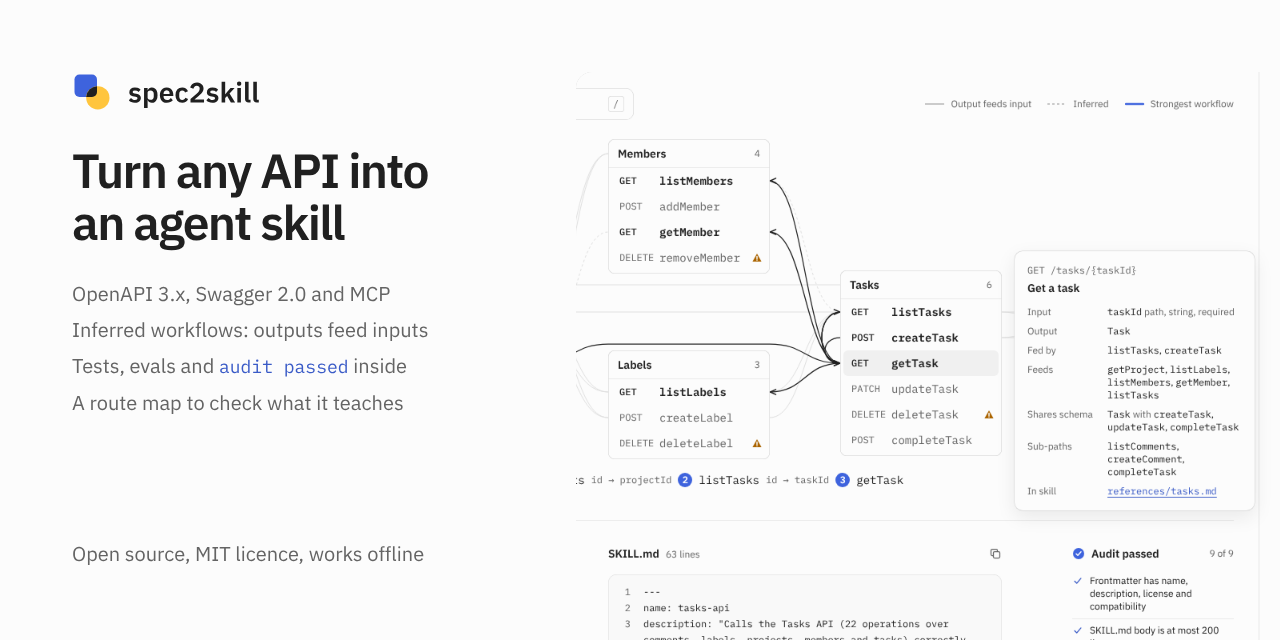
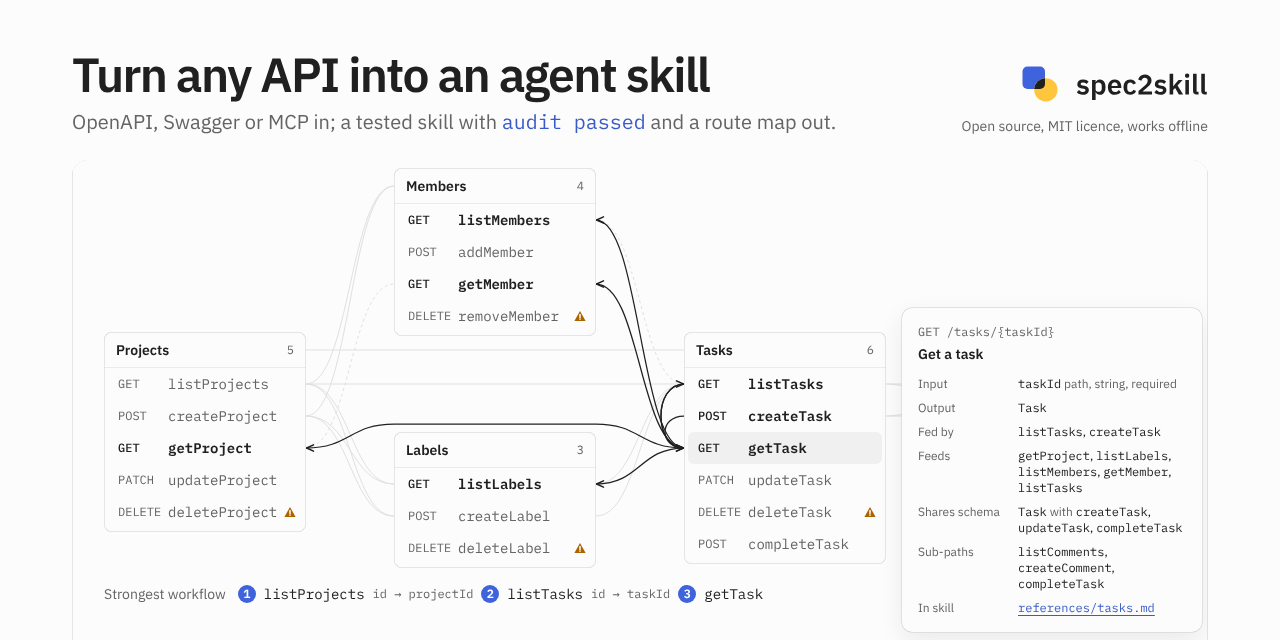
Redesign R7 verify 1: demo opens on Petstore so the switch to the Tasks API is seen; social preview crops the hero along the frame's sides and through blank space, code at 20 (D78)
Claude-Session: https://claude.ai/code/session_018f8FAnzov9ZBQEqsiVnGBS

diff --git a/docs/media/social-preview.html b/docs/media/social-preview.html
@@ -30,40 +30,40 @@
     color: var(--gray-12);
     font-family: 'IBM Plex Sans', system-ui, sans-serif;
     font-feature-settings: "tnum";
-    display: grid;
-    grid-template-columns: 440px 1fr;
-    gap: 64px;
-    padding: 72px 0 0 72px;
+    display: flex;
+    flex-direction: column;
+    gap: 24px;
+    padding: 48px 72px 0;
   }
-  .words { display: flex; flex-direction: column; gap: 32px; padding-bottom: 72px; }
-  .words img { width: 188px; height: auto; }
-  h1 { font-size: 48px; line-height: 52px; font-weight: 600; letter-spacing: -0.035em; text-wrap: balance; }
-  ul { list-style: none; padding: 0; display: grid; gap: 8px; font-size: 20px; line-height: 28px; color: var(--gray-11); }
-  code { font-family: 'IBM Plex Mono', ui-monospace, monospace; font-size: 18px; color: var(--indigo-11); }
-  .foot { margin-top: auto; font-size: 20px; line-height: 28px; color: var(--gray-11); }
-  /* The hero (V2Hover, 1440x1250) at 80 %: Members, Labels and Tasks with getTask hovered, its links in
-     ink and its operation card, from the tools row down. */
+  .top { display: flex; justify-content: space-between; align-items: flex-end; gap: 48px; }
+  h1 { font-size: 48px; line-height: 52px; font-weight: 600; letter-spacing: -0.035em; white-space: nowrap; }
+  .lede { margin-top: 8px; font-size: 20px; line-height: 28px; color: var(--gray-11); }
+  code { font-family: 'IBM Plex Mono', ui-monospace, monospace; font-size: 20px; color: var(--indigo-11); }
+  .mark { display: flex; flex-direction: column; align-items: flex-end; gap: 12px; }
+  .mark img { width: 188px; height: auto; }
+  .mark p { font-size: 14px; line-height: 20px; color: var(--gray-11); }
+  /* The hero (V2Hover, 1440x1250) at 100 %: the result frame (152 to 1288, exactly this box's width)
+     from just above the map's cards (y 576) to the blank under the workflow caption (y 1056), so the
+     crop runs along the frame's sides and through empty space, never through a card or a line of text. */
   .shot {
-    align-self: start;
-    height: 568px;
+    flex: 1;
     overflow: hidden;
-    border-radius: 16px 0 0 0;
+    border-radius: 16px 16px 0 0;
     box-shadow: inset 0 0 0 0.5px var(--gray-7);
   }
-  .shot img { display: block; width: 1152px; max-width: none; margin: -400px 0 0 -347px; }
+  .shot img { display: block; width: 1440px; max-width: none; margin: -576px 0 0 -152px; }
 </style>
 </head>
 <body>
-  <div class="words">
-    <img src="wordmark.svg" alt="spec2skill">
-    <h1>Turn any API into an agent skill</h1>
-    <ul>
-      <li>OpenAPI 3.x, Swagger 2.0 and MCP</li>
-      <li>Inferred workflows: outputs feed inputs</li>
-      <li>Tests, evals and <code>audit passed</code> inside</li>
-      <li>A route map to check what it teaches</li>
-    </ul>
-    <p class="foot">Open source, MIT licence, works offline</p>
+  <div class="top">
+    <div>
+      <h1>Turn any API into an agent skill</h1>
+      <p class="lede">OpenAPI, Swagger or MCP in; a tested skill with <code>audit passed</code> and a route map out.</p>
+    </div>
+    <div class="mark">
+      <img src="wordmark.svg" alt="spec2skill">
+      <p>Open source, MIT licence, works offline</p>
+    </div>
   </div>
   <div class="shot"><img src="hero.png" alt=""></div>
 </body>

diff --git a/docs/DECISIONS.md b/docs/DECISIONS.md
@@ -102,3 +102,4 @@ Record every non-trivial decision here: date, decision, alternatives considered,
 | 2026-10-24 | D75 Made by rows and text overlap (R7 verify 1): a Made by row keeps its two 202 px cells (name over URL, line beside) only while the list is at full width; `.projects` is a size container and below 490 px (a viewport under about 1165 px) the row stacks name, line, URL, as on phones, so no URL is cut, wrapped mid-word or printed over its line (from 640 to about 807 px it was). The URL keeps `min-width: 0` and `overflow-wrap: anywhere` as a last guard. The acceptance suite gains a text-overlap check (`overlapCheck` in redesign-checks.mjs: every rendered line of every visible text node, clipped by its clipping ancestors and narrowed to its em box; two nodes crossing by more than 2 px on both axes fail) on home at rest for each sample at 1440, 1024, 768, 640, 390 and 320, plus each Made by row's name, line and URL boxes neither crossing nor leaving the row; and two states in both themes with checks 1 to 4 and axe: the next row focused from the keyboard (ArrowDown after Escape) and a card pinned from the address (`#op=deleteTask`, `deleteUser`, `move_file`, rows near the map's bottom). | Stack below 960 with the hero (the URL still wrapped mid-word between 960 and 1165); break the URL after "/" (two-line URLs in a 72 px row). | A container query follows the list's own width, which is what the URL needs. |
 | 2026-10-24 | D76 Every hover preview fits above the skill browser (R7 verify 1): the preview has no 240 px floor (that is the pinned card's, which scrolls); after it renders, any preview whose bottom would pass the map's bottom plus 64 px rises, still beside its row, until it ends there (short previews near the bottom such as completeTask, deleteProject, Petstore loginUser and Filesystem get_file_info used to keep their place and cover the skill browser by up to 96 px). `redesign-r4` now hovers every row of all three samples and fails a preview that is cut, leaves its row, ends more than 64 px under the map or reaches the skill browser; D70's exception (a preview taller than the map and caption starts at the map's top and passes the line) is allowed and logged, and none of the three samples has one. | Scroll the preview (it is `aria-hidden` and pointer-only, so a scroll inside it is out of reach); move it to the other side. | The same rule for every preview; the skill browser is never covered. |
 | 2026-10-24 | D77 Check 2 reads generated boxes and opacity (R7 verify 1): `collect()` records `::before` and `::after` whose content is not none (the workflow's stop discs, the code view's line numbers) and an open modal dialog's `::backdrop` like elements (type, colour, lines), and the colour check fails anything at an opacity between 0 and 1 at rest (a faded colour is not a Radix step; the load and hover motion fades through opacity and has finished when `settled` lets the checks read). It found one: the shortcuts dialog's backdrop, `gray-1` at 0.8, which is now opaque `gray-1` (the dialog sits on a plain page). The acceptance suite gains the shortcuts dialog as a state in both themes on every sample (checks 1 to 4 and axe). | A documented scrim exception (gray-1 at 0.8) in check 2. | No exception to the colour rule; the shortcuts read better on a quiet page. |
+| 2026-10-24 | D78 Media fixes (R7 verify 1), amending D72: `docs/media/demo.gif` (277 KB, 19 frames) now opens on one Petstore frame (1.2 s) with the samples at the window's top, so the switch to the Tasks API is seen (Petstore selected, then Tasks API, and the load sequence under it); the README alt text and LAUNCH.md say so. `docs/media/social-preview.html` is relaid: the headline on one line (48) with a one-line lede (20, the code at 20 rather than 18) and the wordmark with "Open source, MIT licence, works offline" (14) on the right, over the hero at 100 %: the result frame from its left to its right side (152 to 1288 px, exactly the 1136 px box) and from just above the map's cards (y 576) to the blank under the workflow caption (y 1056), so no card, line of text or caption is cut; `docs/social-preview.png` 1280x640. | Keep the 80 % crop beside the words (any crop narrower than the frame cuts the workflow caption or the operation card); start the GIF on the Tasks API (the switch is not seen). | The whole map and card, legible, and a demo that shows the switch it describes. |

diff --git a/README.md b/README.md
@@ -13,7 +13,7 @@ Paste a spec URL, an MCP server URL or the spec text, or pick a built-in sample.
 
 <picture>
   <source media="(prefers-reduced-motion: reduce)" srcset="docs/media/hero.png">
-  <img src="docs/media/demo.gif" width="960" alt="A short recording of spec2skill on its built-in Tasks API sample. The route map loads: five resource cards rise column by column (Projects, then Members and Labels, then Tasks, then Comments), the links fade in, and the strongest workflow draws left to right as one indigo line with numbered stops listProjects, listTasks and getTask. The pointer rests on getTask: its feed links turn ink, everything else fades, and its operation card lists input, output, fed by, feeds, shares schema, sub-paths and In skill. The In skill link opens references/tasks.md in the skill browser below the map, beside Audit passed, 9 of 9. A still image is shown instead when reduced motion is preferred.">
+  <img src="docs/media/demo.gif" width="960" alt="A short recording of spec2skill's built-in samples. It opens on the Petstore map; Tasks API is then picked in the samples above it and its route map loads: five resource cards rise column by column (Projects, then Members and Labels, then Tasks, then Comments), the links fade in, and the strongest workflow draws left to right as one indigo line with numbered stops listProjects, listTasks and getTask. The pointer rests on getTask: its feed links turn ink, everything else fades, and its operation card lists input, output, fed by, feeds, shares schema, sub-paths and In skill. The In skill link opens references/tasks.md in the skill browser below the map, beside Audit passed, 9 of 9. A still image is shown instead when reduced motion is preferred.">
 </picture>
 
 ## What you get

diff --git a/docs/LAUNCH.md b/docs/LAUNCH.md
@@ -51,7 +51,7 @@ All three run offline on the built-in samples, with no account and no key. Start
 pnpm install && pnpm build && pnpm preview      # http://127.0.0.1:4173 (or `pnpm dev`)
 ```
 
-`pnpm capture:demo` (after `pnpm build`) records the README's demo in headless Chrome on the Tasks API sample (the load sequence, getTask's operation card, In skill) and writes the frames to `docs/media/demo/` and the GIF to `docs/media/demo.gif`.
+`pnpm capture:demo` (after `pnpm build`) records the README's demo in headless Chrome on the built-in samples (Petstore, the switch to the Tasks API and its load sequence, getTask's operation card, In skill) and writes the frames to `docs/media/demo/` and the GIF to `docs/media/demo.gif`.
 
 ### 1. "Teach my agent this MCP server" (Filesystem MCP)
 
